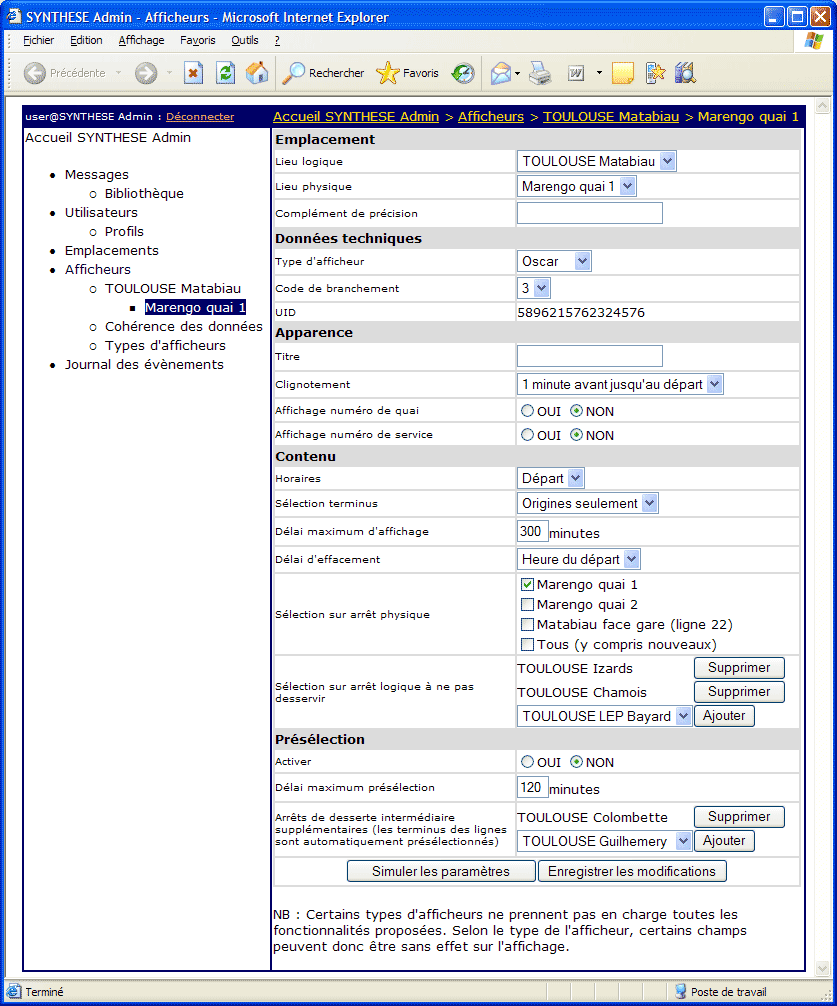
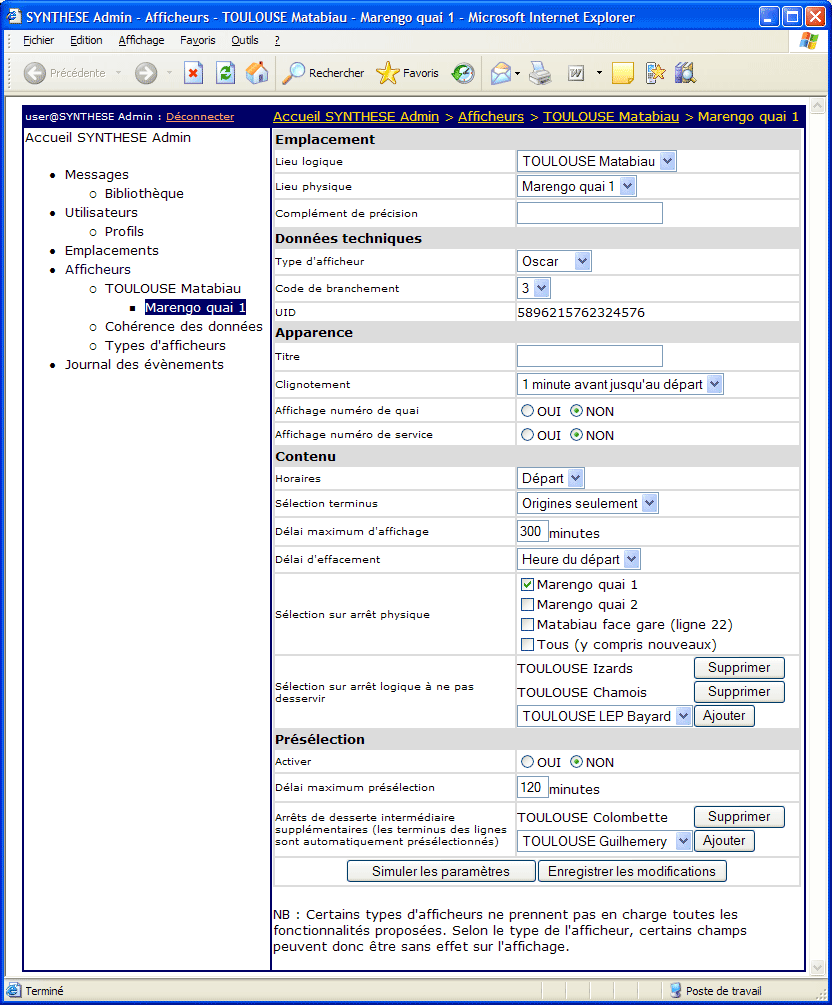
logs list doc

diff --git a/doc/schemas/capturesSAI/admin_display.htm b/doc/schemas/capturesSAI/admin_display.htm
@@ -1,6 +1,6 @@
 <HTML>
 	<HEAD>
-		<TITLE>SYNTHESE Admin - Afficheurs</TITLE>
+		<TITLE>SYNTHESE Admin - Afficheurs - TOULOUSE Matabiau - Marengo quai 1</TITLE>
 		<meta content="False" name="vs_showGrid">
 		<meta content="http://schemas.microsoft.com/intellisense/ie5" name="vs_targetSchema">
 		<META content="Microsoft Visual Studio .NET 7.1" name="GENERATOR">
